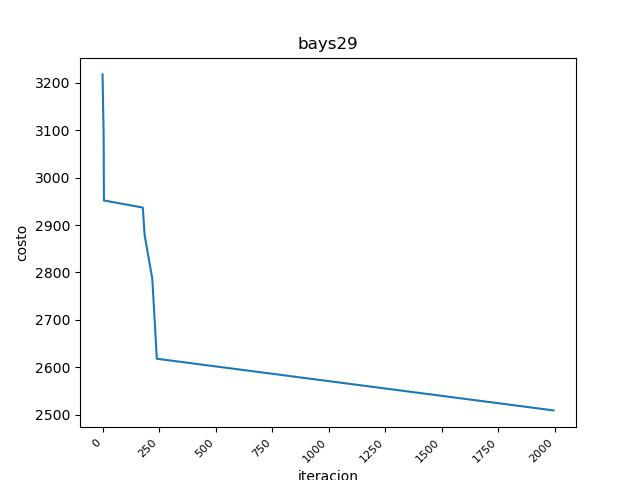
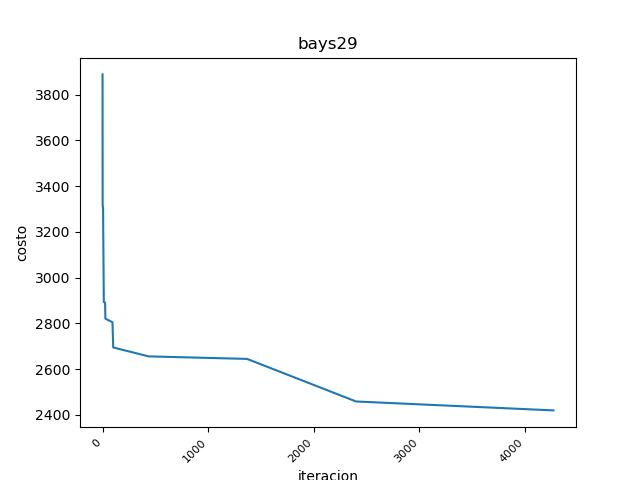
nuevos resultados y readme

diff --git a/main.py b/main.py
@@ -6,9 +6,9 @@ from grasp import grasp
 from graph_functions import drawGraph
 from utils import plot_result, write_result
 
-MAX_ITERACIONES = 3500
-MAX_MEJORAS_MINIMAS = 5
-RATIO_MEJORA_MINIMA = 0.01
+MAX_ITERACIONES = 5000
+MAX_MEJORAS_MINIMAS = 200
+RATIO_MEJORA_MINIMA = 0.02
 POS_INICIAL = 0
 
 

diff --git a/README.md b/README.md
@@ -1,5 +1,27 @@
 # Travel Salesman Problem
 
+## Reportes
+
+La ejecucion de grasp sobre todos los archivos de prueba se realizo con un maximo de iteraciones de 5000, 200 como cantidad maxima de mejoras minimas y un ratio de 2% de mejora minima aceptable.
+
+Para el grafico de scoring completo se guarda la iteracion en la que se obtuvo la mejor solucion, junto con el costo de la misma. De esta manera vemos como algunos grafos alcanzan la mejor solucion encontrada en relativamente pocas iteraciones.
+Tambien se realizaron graficos evolutivos a traves de las etapas para cada grafo, se pueden observar en esta seccion.
+
+![scoring](https://github.com/MauroB3/[reponame]/blob/[branch]/image.jpg?raw=true)
+
+
 ## Como ejecutarlo
 
-En main.py colocar en 'nombre_test' el nombre del archivo xml que queremos utilizar. Luego de la ejecucion se genera un archivo 'resultado.txt' con el circuito hamiltoniano de la solucion y su respectivo valor.
+En el archivo main.py existen dos funciones, una para ejecutar grasp sobre un grafo concreto y otra para ejecutar grasp sobre la bateria de test completa. En caso de querer ejecutar para un solo grafo se debe indicar el nombre del mismo.
+
+Como resultado de ambas funciones se genera un archivo '.txt' dentro de la carpeta 'resultados' que contiene el camino hamiltoniano de la solucion y el costo del mismo. Ademas, dentro de la carpeta 'images' se generará un grafico evolutivo a traves de las etapas de grasp para cada grafo o para el grafo elegido.
+
+### Importante
+
+Existen 4 constantes dentro de main.py:
+  - **MAX_ITERACIONES**: Es el maximo de iteraciones para el algoritmo grasp.
+  - **MAX_MEJORAS_MINIMAS**: Es la cantidad de veces que vamos a aceptar mejorar 'poco'.
+  - **RATIO_MEJORA_MINIMA**: Es el porcentaje minimo de mejora que vamos a aceptar.
+  - **POS_INICIAL**: Es el nodo desde el que partimos.
+
+Estos 4 valores pueden ser modificados a gusto. Yo considere estos valores iniciales ya que luego de varias pruebas considere que son los que mejores soluciones generan.
